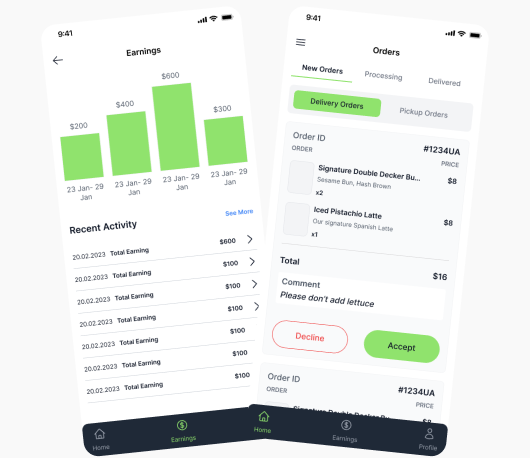
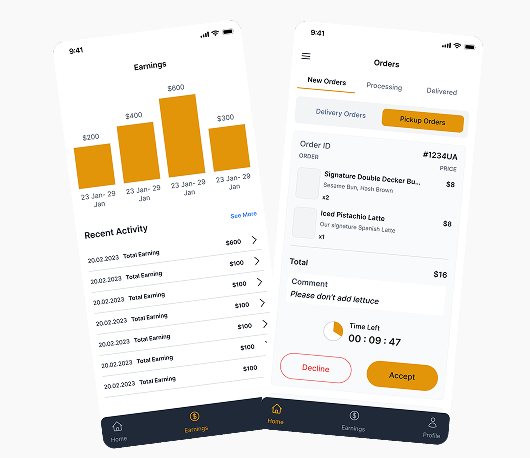
app and webcustomization

diff --git a/joylo-app/src/components/NewRestaurantDetailDesign/RestaurantDetailSkeleton.js b/joylo-app/src/components/NewRestaurantDetailDesign/RestaurantDetailSkeleton.js
@@ -130,7 +130,7 @@ const RestaurantDetailSkeleton = ({ currentTheme }) => {
               <SkeletonPlaceholder currentTheme={currentTheme} style={{ width: scale(25), height: scale(16), borderRadius: scale(3) }} />
               <SkeletonPlaceholder currentTheme={currentTheme} style={{ width: scale(80), height: scale(16), borderRadius: scale(3) }} />
             </View>
-            <View style={[styles.reviewButton, { backgroundColor: currentTheme.newButtonBackground || '#F3FFEE' }]}>
+            <View style={[styles.reviewButton, { backgroundColor: currentTheme.newButtonBackground || '#FFDBBB' }]}>
               <SkeletonPlaceholder currentTheme={currentTheme} style={{ width: scale(80), height: scale(16), borderRadius: scale(3) }} />
             </View>
           </View>
@@ -141,7 +141,7 @@ const RestaurantDetailSkeleton = ({ currentTheme }) => {
               <SkeletonPlaceholder currentTheme={currentTheme} style={{ width: scale(21), height: scale(21), borderRadius: scale(10.5) }} />
               <SkeletonPlaceholder currentTheme={currentTheme} style={{ width: scale(120), height: scale(16), borderRadius: scale(3) }} />
             </View>
-            <View style={[styles.statusButton, { backgroundColor: currentTheme.newButtonBackground || '#F3FFEE' }]}>
+            <View style={[styles.statusButton, { backgroundColor: currentTheme.newButtonBackground || '#FFDBBB' }]}>
               <SkeletonPlaceholder currentTheme={currentTheme} style={{ width: scale(50), height: scale(16), borderRadius: scale(3) }} />
             </View>
           </View>

diff --git a/joylo-app/src/utils/themeColors.js b/joylo-app/src/utils/themeColors.js
@@ -113,16 +113,16 @@ export const theme = {
     color10: 'transparent',
     linkColor: '#0EA5E9',
     svgFill: '#2E2E2E',
-    newButtonBackground:'#F3FFEE',
+    newButtonBackground:'#FFDBBB',
     newButtonText:'#63C43B',
-    newButtonBackground: '#F3FFEE',
+    newButtonBackground: '#FFDBBB',
     newButtonText: '#63C43B',
     color11: '#4B5563',
     color12: '#94A3B8',
    color9:'gray',
     iconStroke:'#0F172A',
     color10:'transparent',
-    newButtonBackground:'#F3FFEE',
+    newButtonBackground:'#FFDBBB',
     newButtonText:'#63C43B',
     subText: '#475569',
     customBorder: '#E5E7EB',
@@ -237,15 +237,15 @@ export const theme = {
     color10: '#fff',
     linkColor: '#0EA5E9',
     svgFill: '#d9d9d9',
-    newButtonBackground:'#F3FFEE',
+    newButtonBackground:'#FFDBBB',
     newButtonText:'#63C43B',
-    newButtonBackground: '#F3FFEE',
+    newButtonBackground: '#FFDBBB',
     newButtonText: '#63C43B',
     color11: '#4B5563',
     color12: '#fff',
     iconStroke:'#b0afbc',
     color10:'#fff',
-    newButtonBackground:'#F3FFEE',
+    newButtonBackground:'#FFDBBB',
     newButtonText:'#63C43B',
     subText: '#475569',
     customBorder: 'transparent',

diff --git a/joylo-app/src/components/NewRestaurantDetailDesign/RestaurantDetailHeader/styles.js b/joylo-app/src/components/NewRestaurantDetailDesign/RestaurantDetailHeader/styles.js
@@ -104,7 +104,7 @@ const styles = (props = null) =>
       gap: scale(8)
     },
     reviewButton: {
-      backgroundColor: props?.newButtonBackground ?? '#F3FFEE',
+      backgroundColor: props?.newButtonBackground ?? '#FFDBBB',
       borderRadius: scale(4),
       paddingVertical: scale(8),
       paddingHorizontal: scale(12)
@@ -121,7 +121,7 @@ const styles = (props = null) =>
       gap: scale(5)
     },
     statusButton: {
-      backgroundColor: props?.newButtonBackground ?? '#F3FFEE',
+      backgroundColor: props?.newButtonBackground ?? '#FFDBBB',
       borderRadius: scale(4),
       paddingVertical: scale(8),
       paddingHorizontal: scale(12)

diff --git a/joylo-app/src/components/Restaurant/ImageHeader/styles.js b/joylo-app/src/components/Restaurant/ImageHeader/styles.js
@@ -139,7 +139,7 @@ const styles = (props = null) =>
       ...alignment.PRmedium,
     },
     seeReviewsBtn: {
-      backgroundColor: props != null ? props.newButtonBackground : '#F3FFEE',
+      backgroundColor: props != null ? props.newButtonBackground : '#FFDBBB',
       borderRadius: 4,
       paddingTop: 8,
       paddingBottom: 8,
@@ -163,7 +163,7 @@ const styles = (props = null) =>
       ...alignment.PRlarge
     },
     activeHeader: {
-      backgroundColor: props != null ? props.newButtonBackground : '#F3FFEE',
+      backgroundColor: props != null ? props.newButtonBackground : '#FFDBBB',
       borderRadius: scale(50),
     },
     heading: {

diff --git a/joylo-app/src/components/Main/TopBrands/styles.js b/joylo-app/src/components/Main/TopBrands/styles.js
@@ -69,7 +69,7 @@ const styles = (props = null) =>
       // marginHorizontal: scale(10),
     },
     seeAllBtn: {
-      backgroundColor: props != null ? props?.newButtonBackground : '#F3FFEE',
+      backgroundColor: props != null ? props?.newButtonBackground : '#FFDBBB',
       borderRadius: 4,
       paddingTop: 8,
       paddingBottom: 8,

diff --git a/joylo-app/src/screens/Profile/styles.js b/joylo-app/src/screens/Profile/styles.js
@@ -253,7 +253,7 @@ const styles = (props = null) =>
       ...alignment.MTlarge,
     },
     seeAll: {
-      backgroundColor: props !== null ? props?.newButtonBackground : '#F3FFEE',
+      backgroundColor: props !== null ? props?.newButtonBackground : '#FFDBBB',
       ...alignment.Psmall,
       borderRadius: scale(5),
     },

diff --git a/joylo-app/src/components/Main/MainRestaurantCard/styles.js b/joylo-app/src/components/Main/MainRestaurantCard/styles.js
@@ -63,7 +63,7 @@ const styles = (props = null) =>
       gap: 10
     },
     seeAllBtn: {
-      backgroundColor: props != null ? props?.newButtonBackground : '#F3FFEE',
+      backgroundColor: props != null ? props?.newButtonBackground : '#FFDBBB',
       borderRadius: 4,
       paddingTop: 8,
       paddingBottom: 8,

diff --git a/joylo-app/src/screens/Menu/styles.js b/joylo-app/src/screens/Menu/styles.js
@@ -191,7 +191,7 @@ const styles = (props = null) =>
       
     },
     seeAllBtn: {
-      backgroundColor: props != null ? props?.newButtonBackground : '#F3FFEE',
+      backgroundColor: props != null ? props?.newButtonBackground : '#FFDBBB',
       borderRadius: 4,
       paddingTop: 8,
       paddingBottom: 8,
